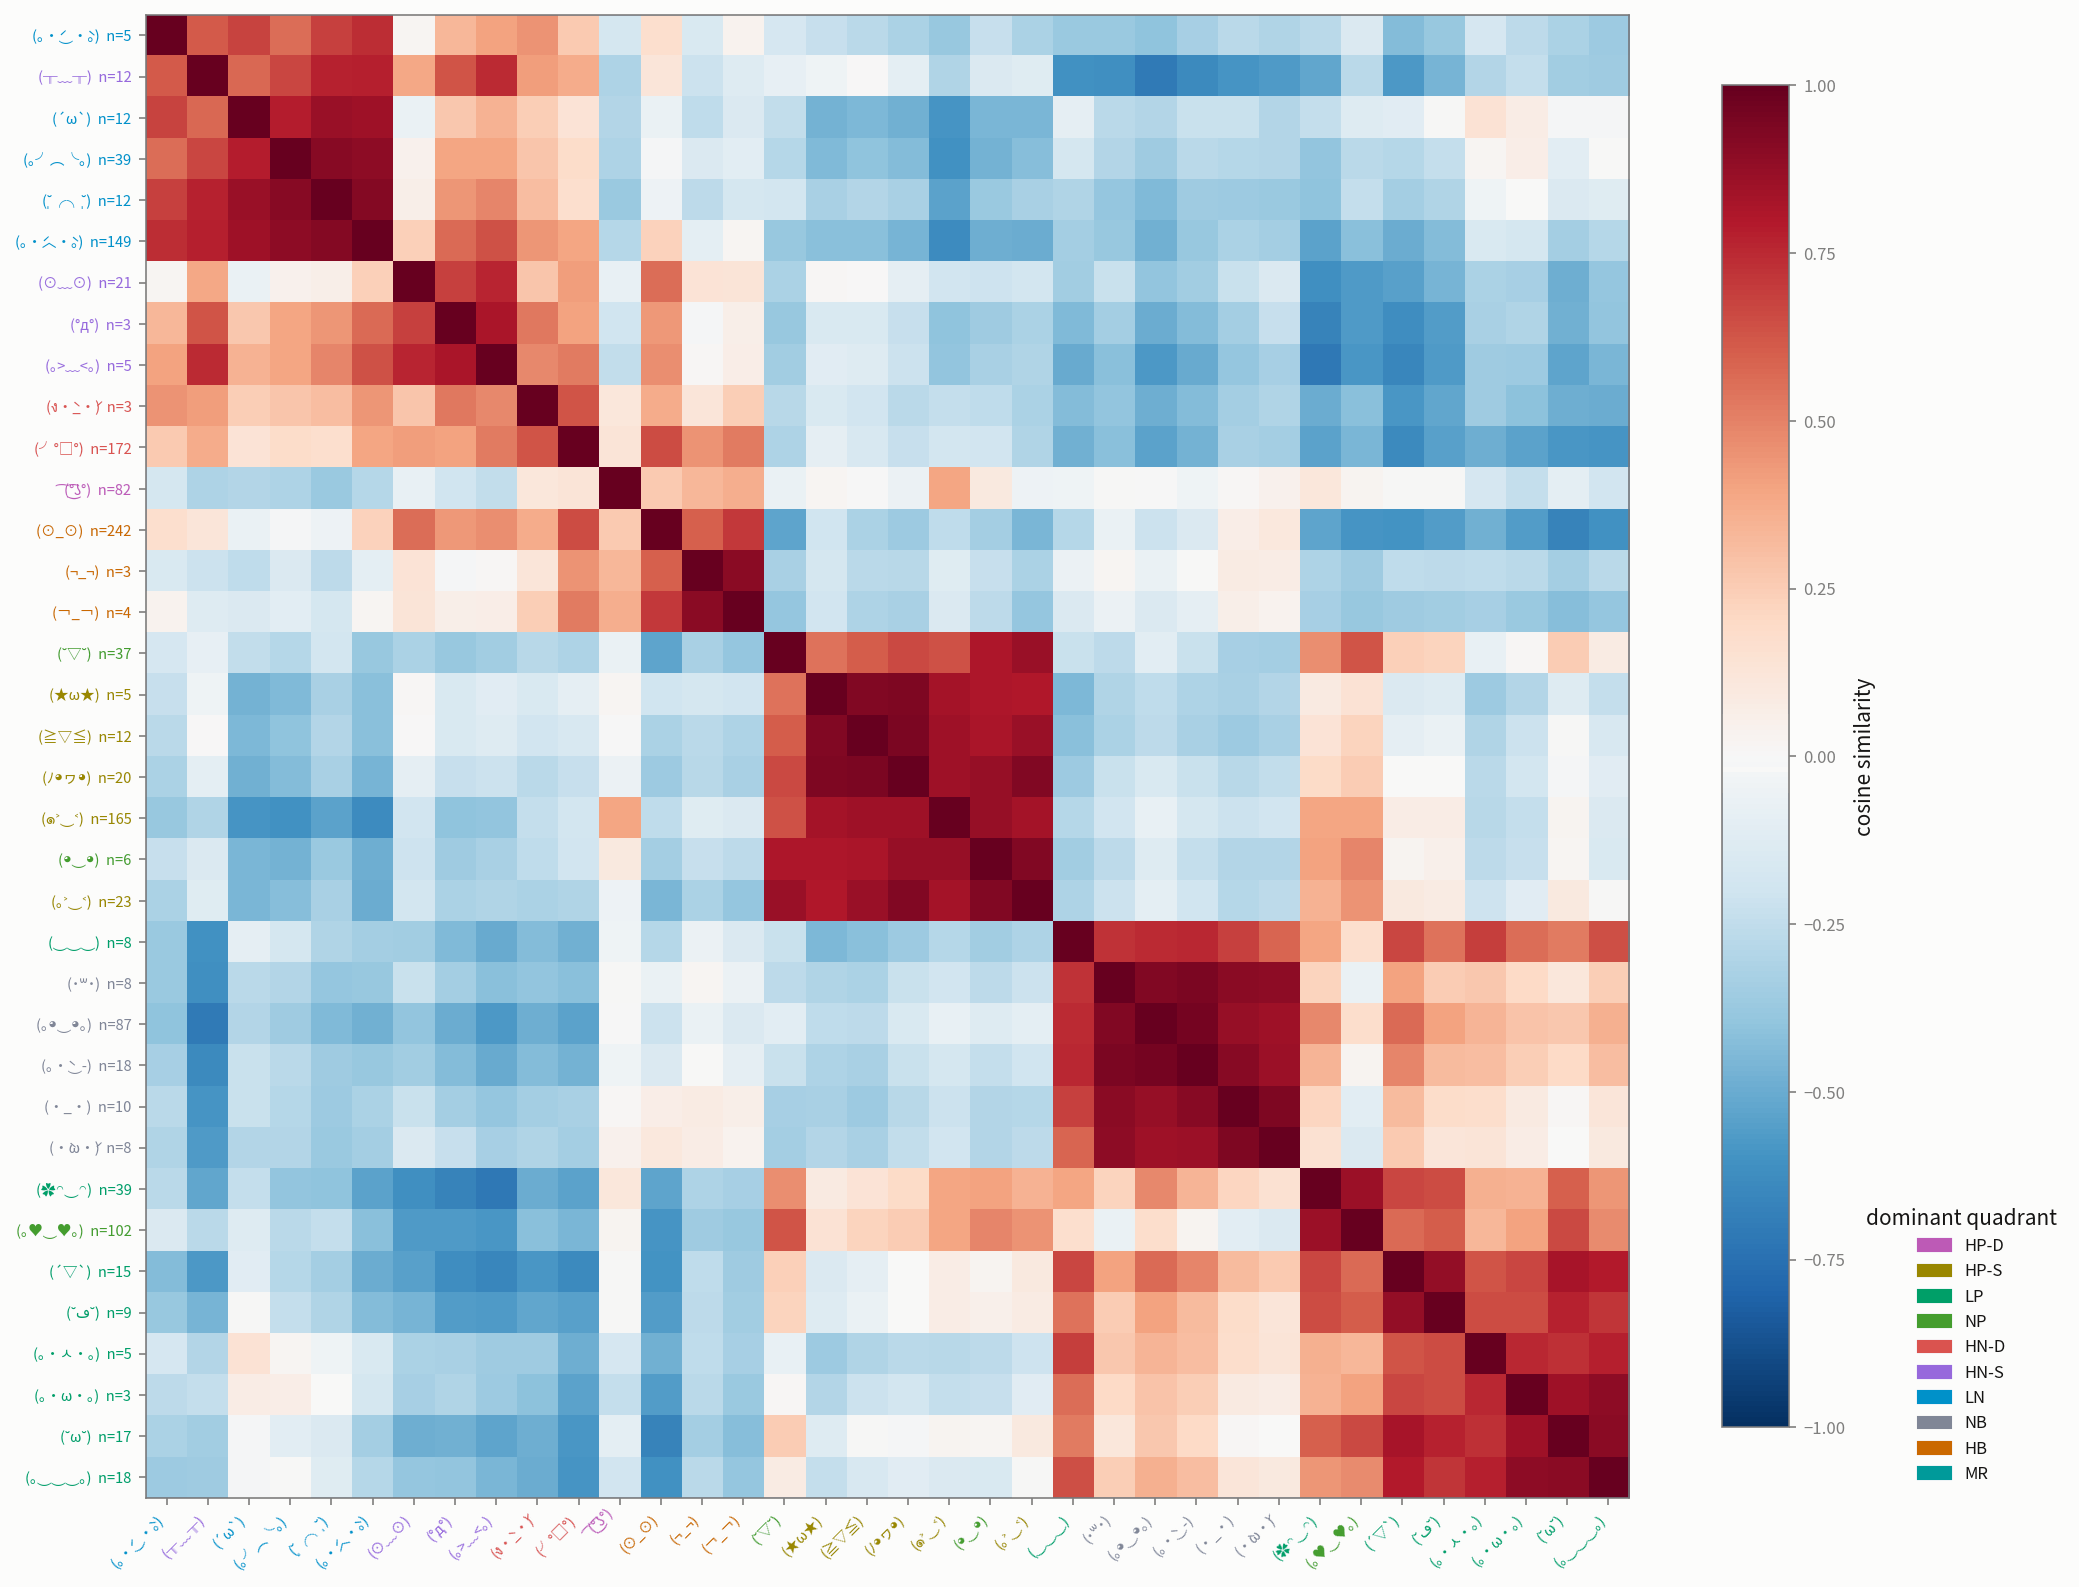
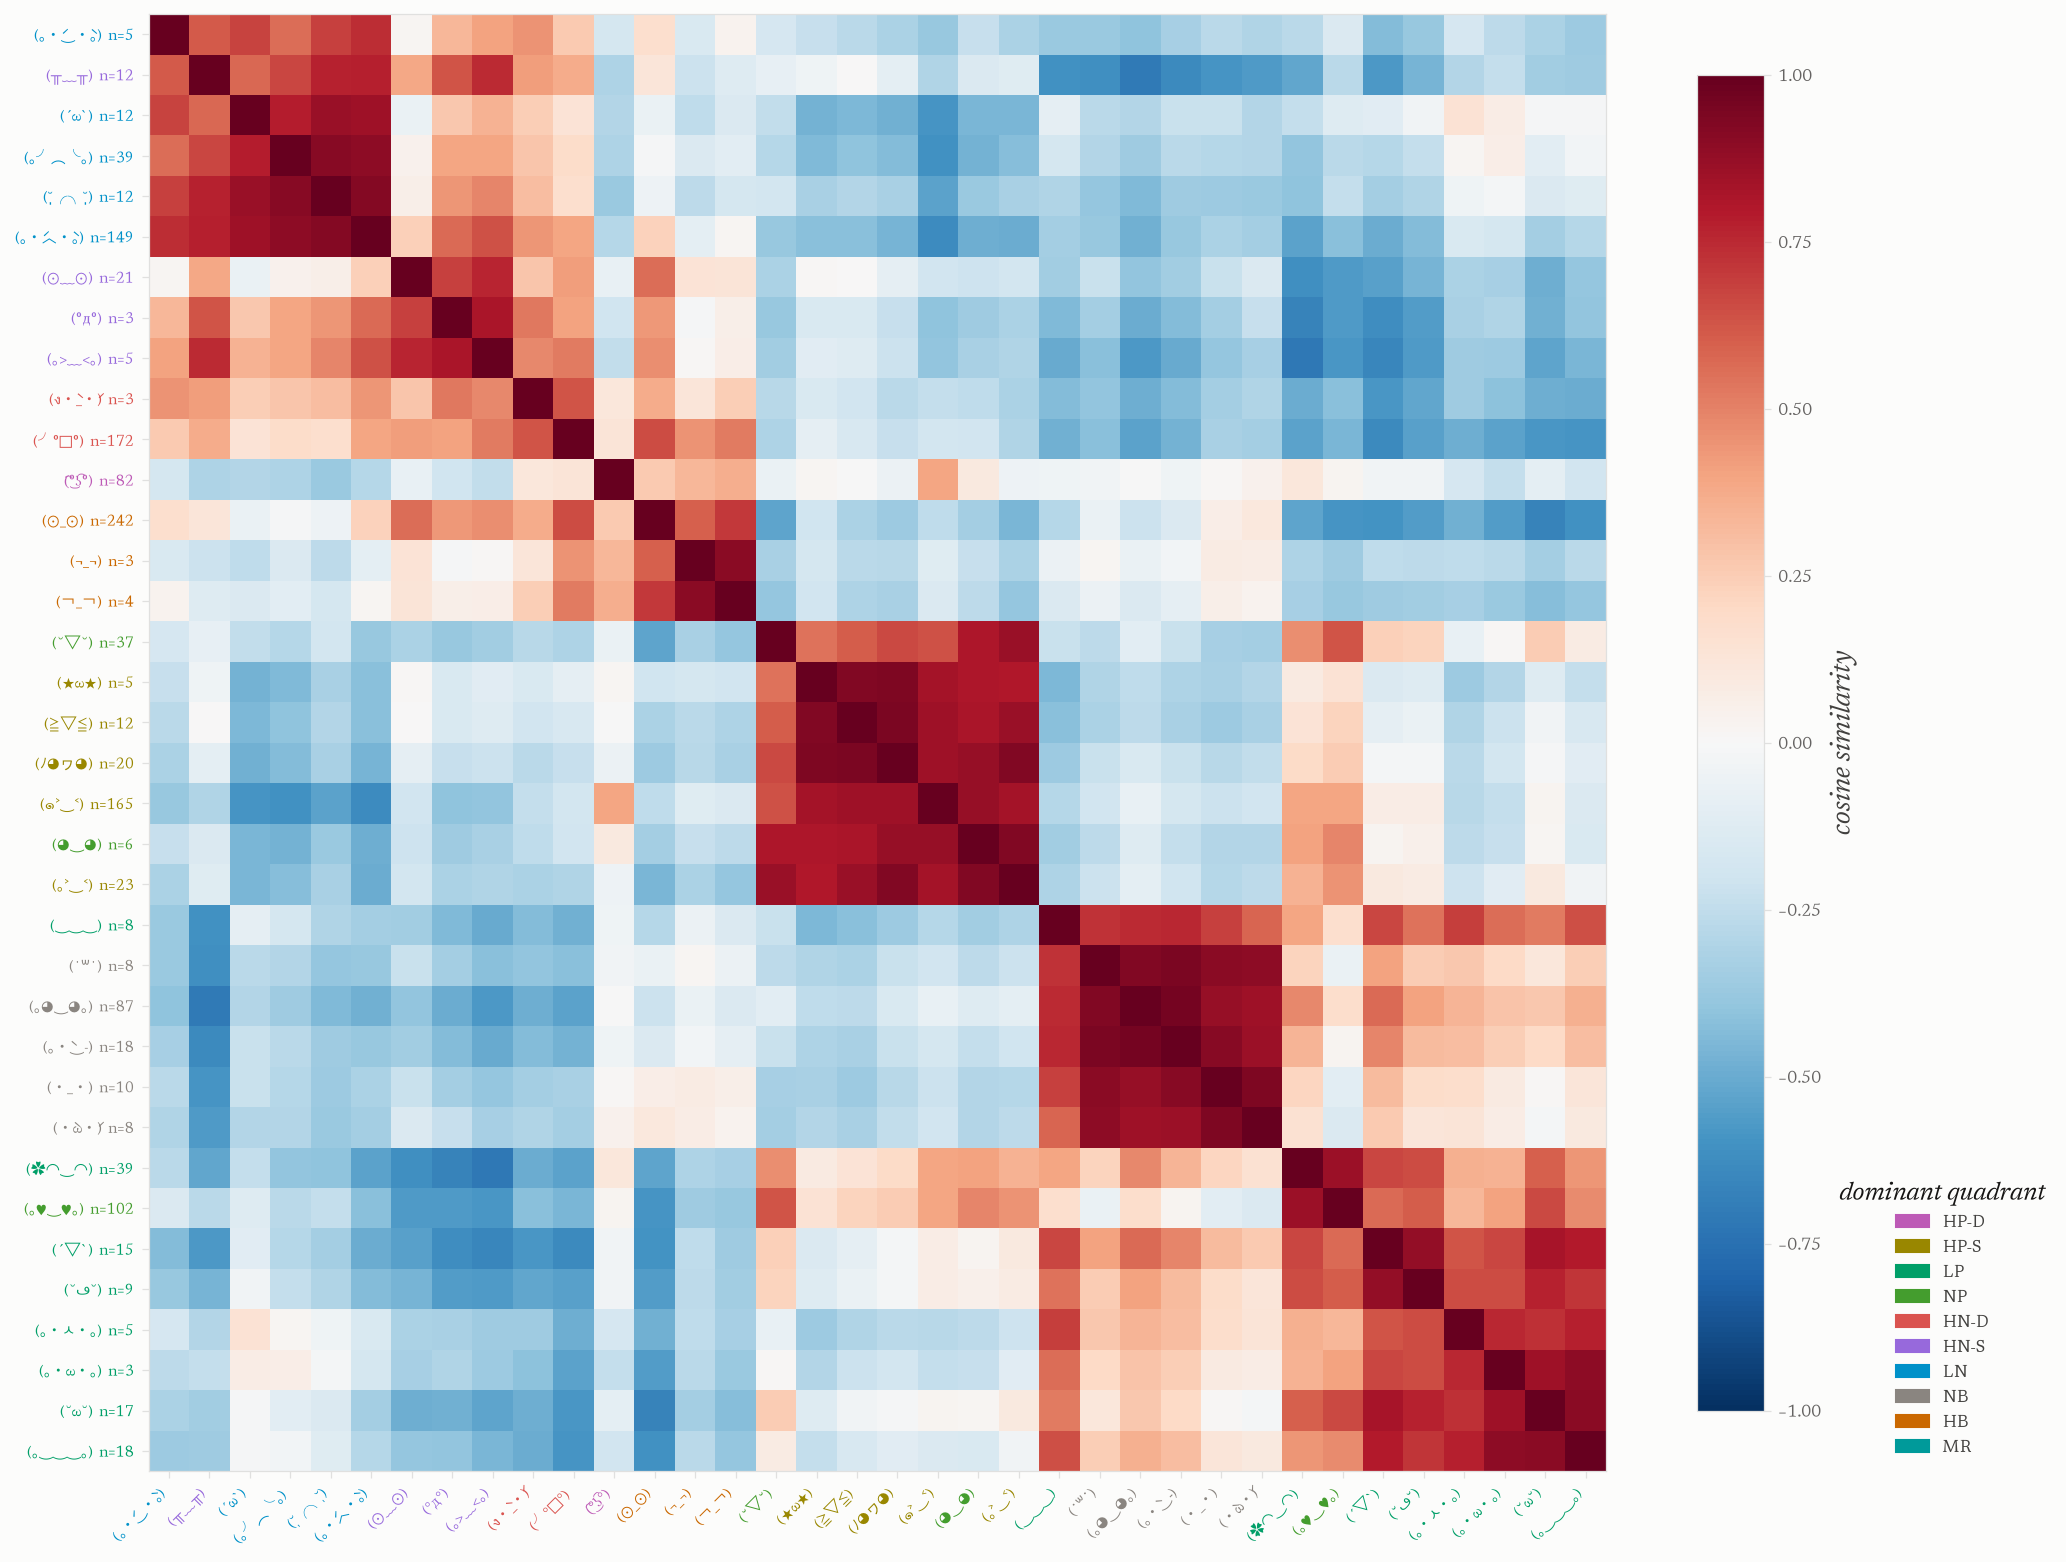
kaomoji post: heatmaps redrawn in Newsreader from their recovered data
The ten per-kaomoji cosine heatmaps are redrawn on the design system's
grounds and fonts from the matrices, faces, counts and quadrants recovered
from the published figures (llmoji-experiment
scripts/local/97_recover_blog_heatmaps.py); every cell keeps its published
colour. The design system has no remaining known gap.

diff --git a/AGENTS.md b/AGENTS.md
@@ -178,10 +178,6 @@ Nothing is uppercase or letter-spaced. Japanese labels are upright, weight 500, 
 - `.fade-in.visible` outranks a plain hover selector; hover rules for those elements must include `.visible`.
 - Keep project sidebars on the `.sidebar-tabs` pattern inside `.stats-header`.
 
-### Known gap
-
-The ten `fig_emo_a_kaomoji_sim_*` heatmap pairs in `static/blog-assets/introspection-via-kaomoji/` sit on the current grounds and ink (their neutral axis was remapped in place) but keep their labels in the previous typeface. `interpretability-experiments/llmoji-experiment/scripts/local/99_regen_blog_figures.py` regenerates them in Newsreader once the post's per-row hidden states (`data/local/hidden/`, `data/local/cache/`) are recaptured; it already regenerates the post's Plotly figures and layerwise PNGs.
-
 ## SEO and identifier safety
 
 Never invent Wikidata QIDs, DOIs, or scholarly URLs from memory. Verify QIDs with the Wikidata search API and entity JSON, DOIs with Crossref or the DOI resolver, and other references against their live primary source. If no entity exists, omit it. This applies to Worker scripture schema, project JSON-LD, `isBasedOn`, and educational references.
